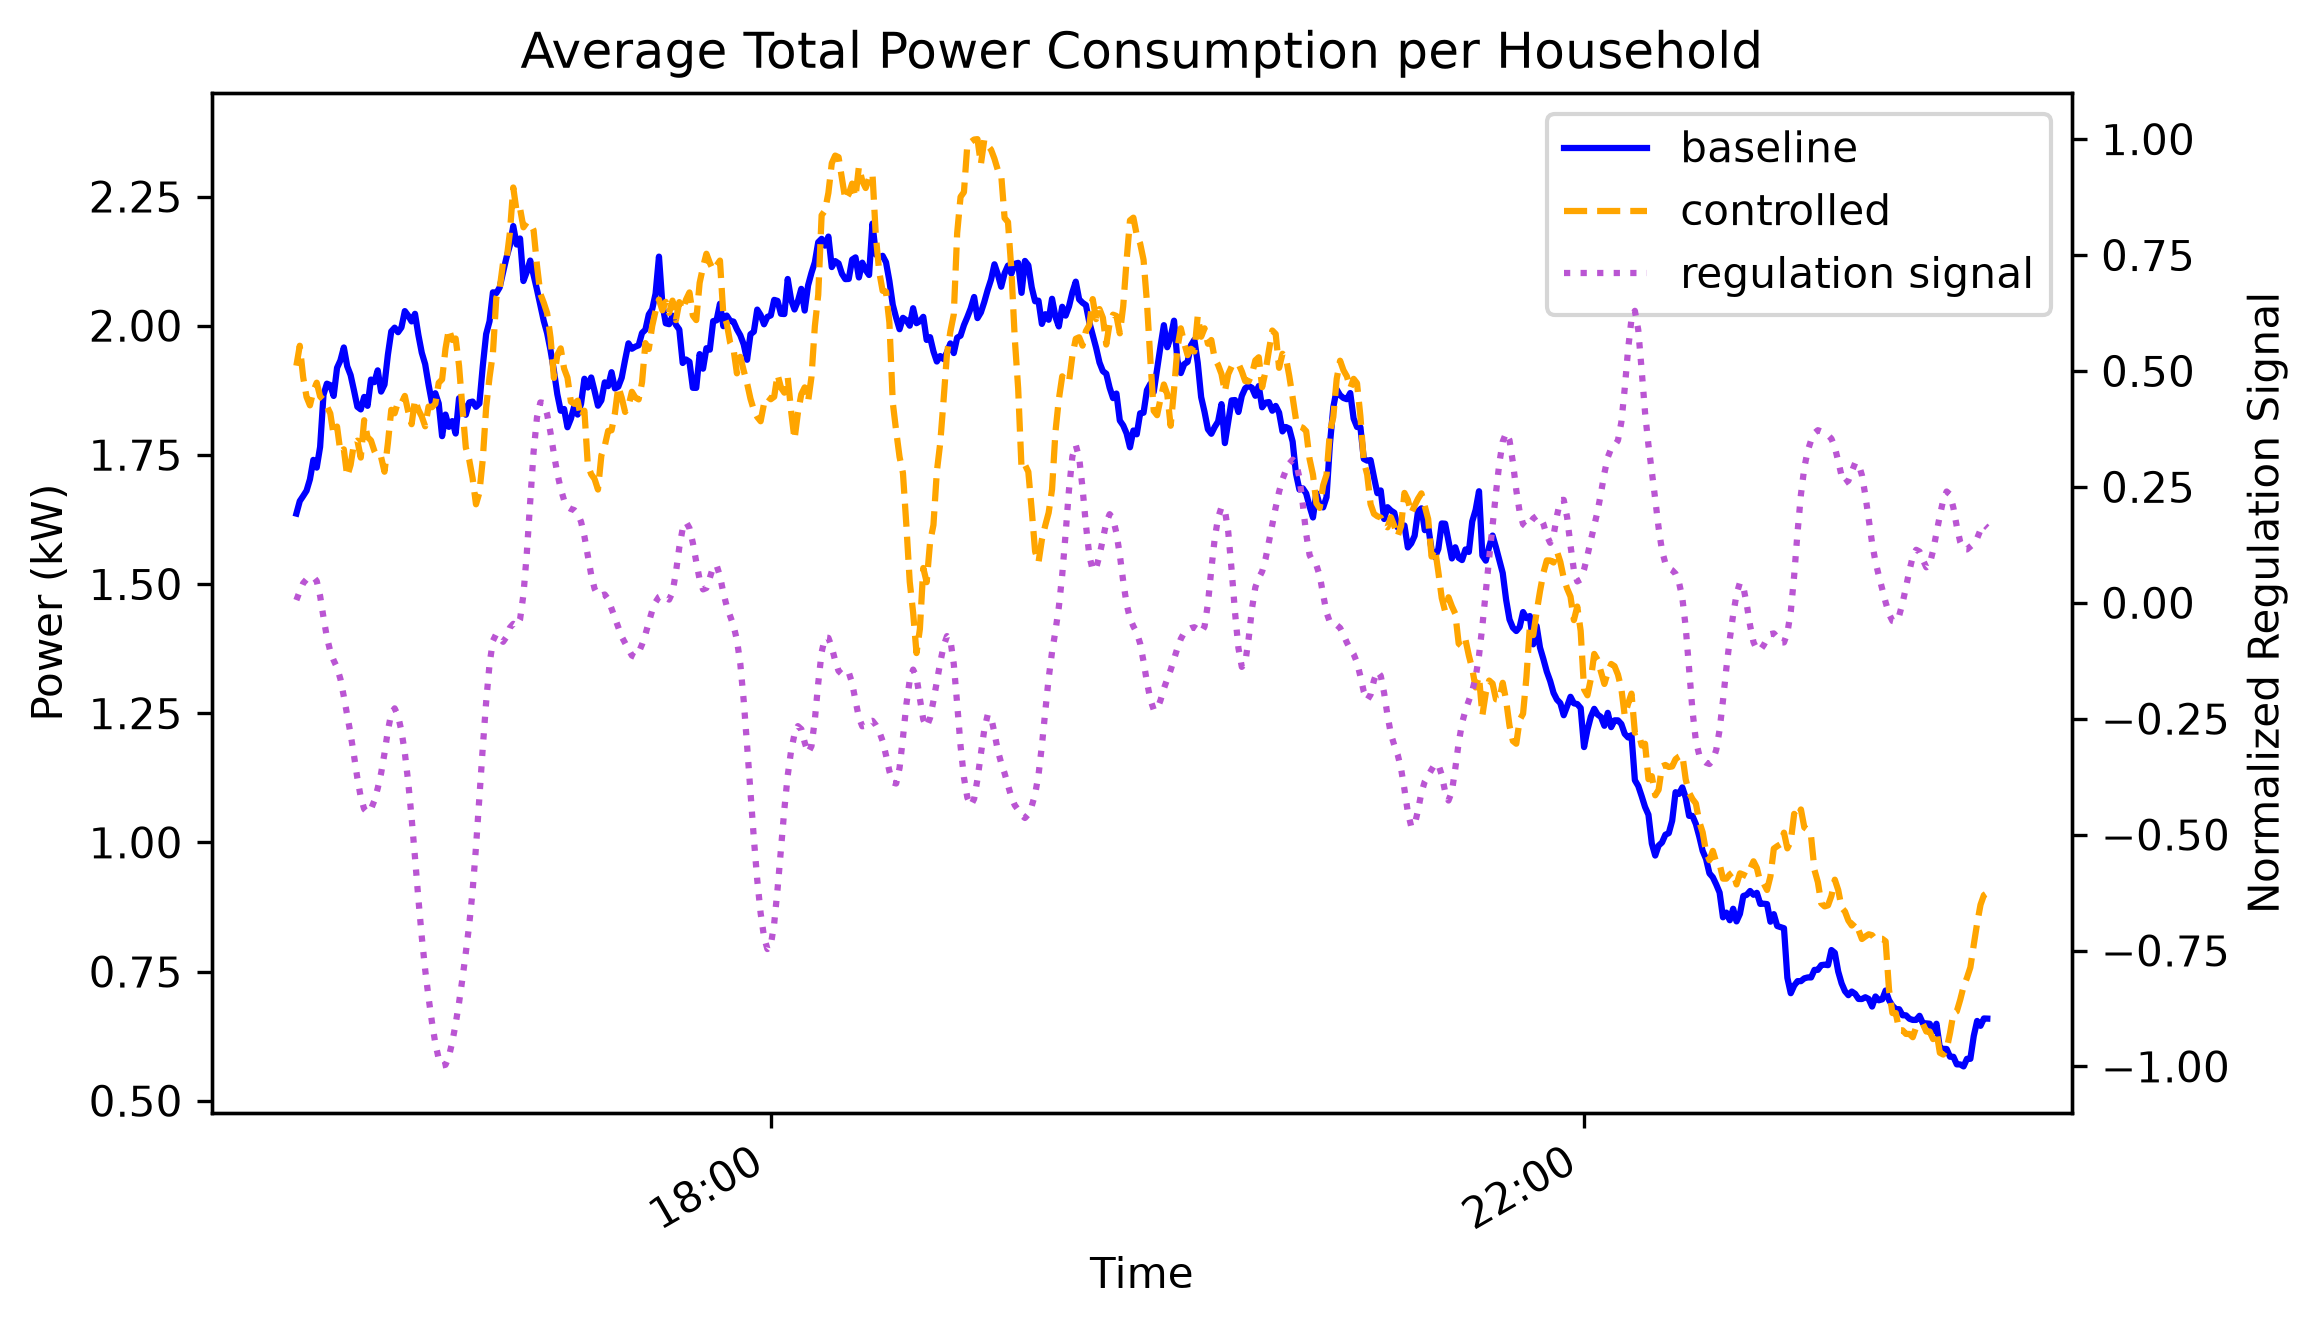
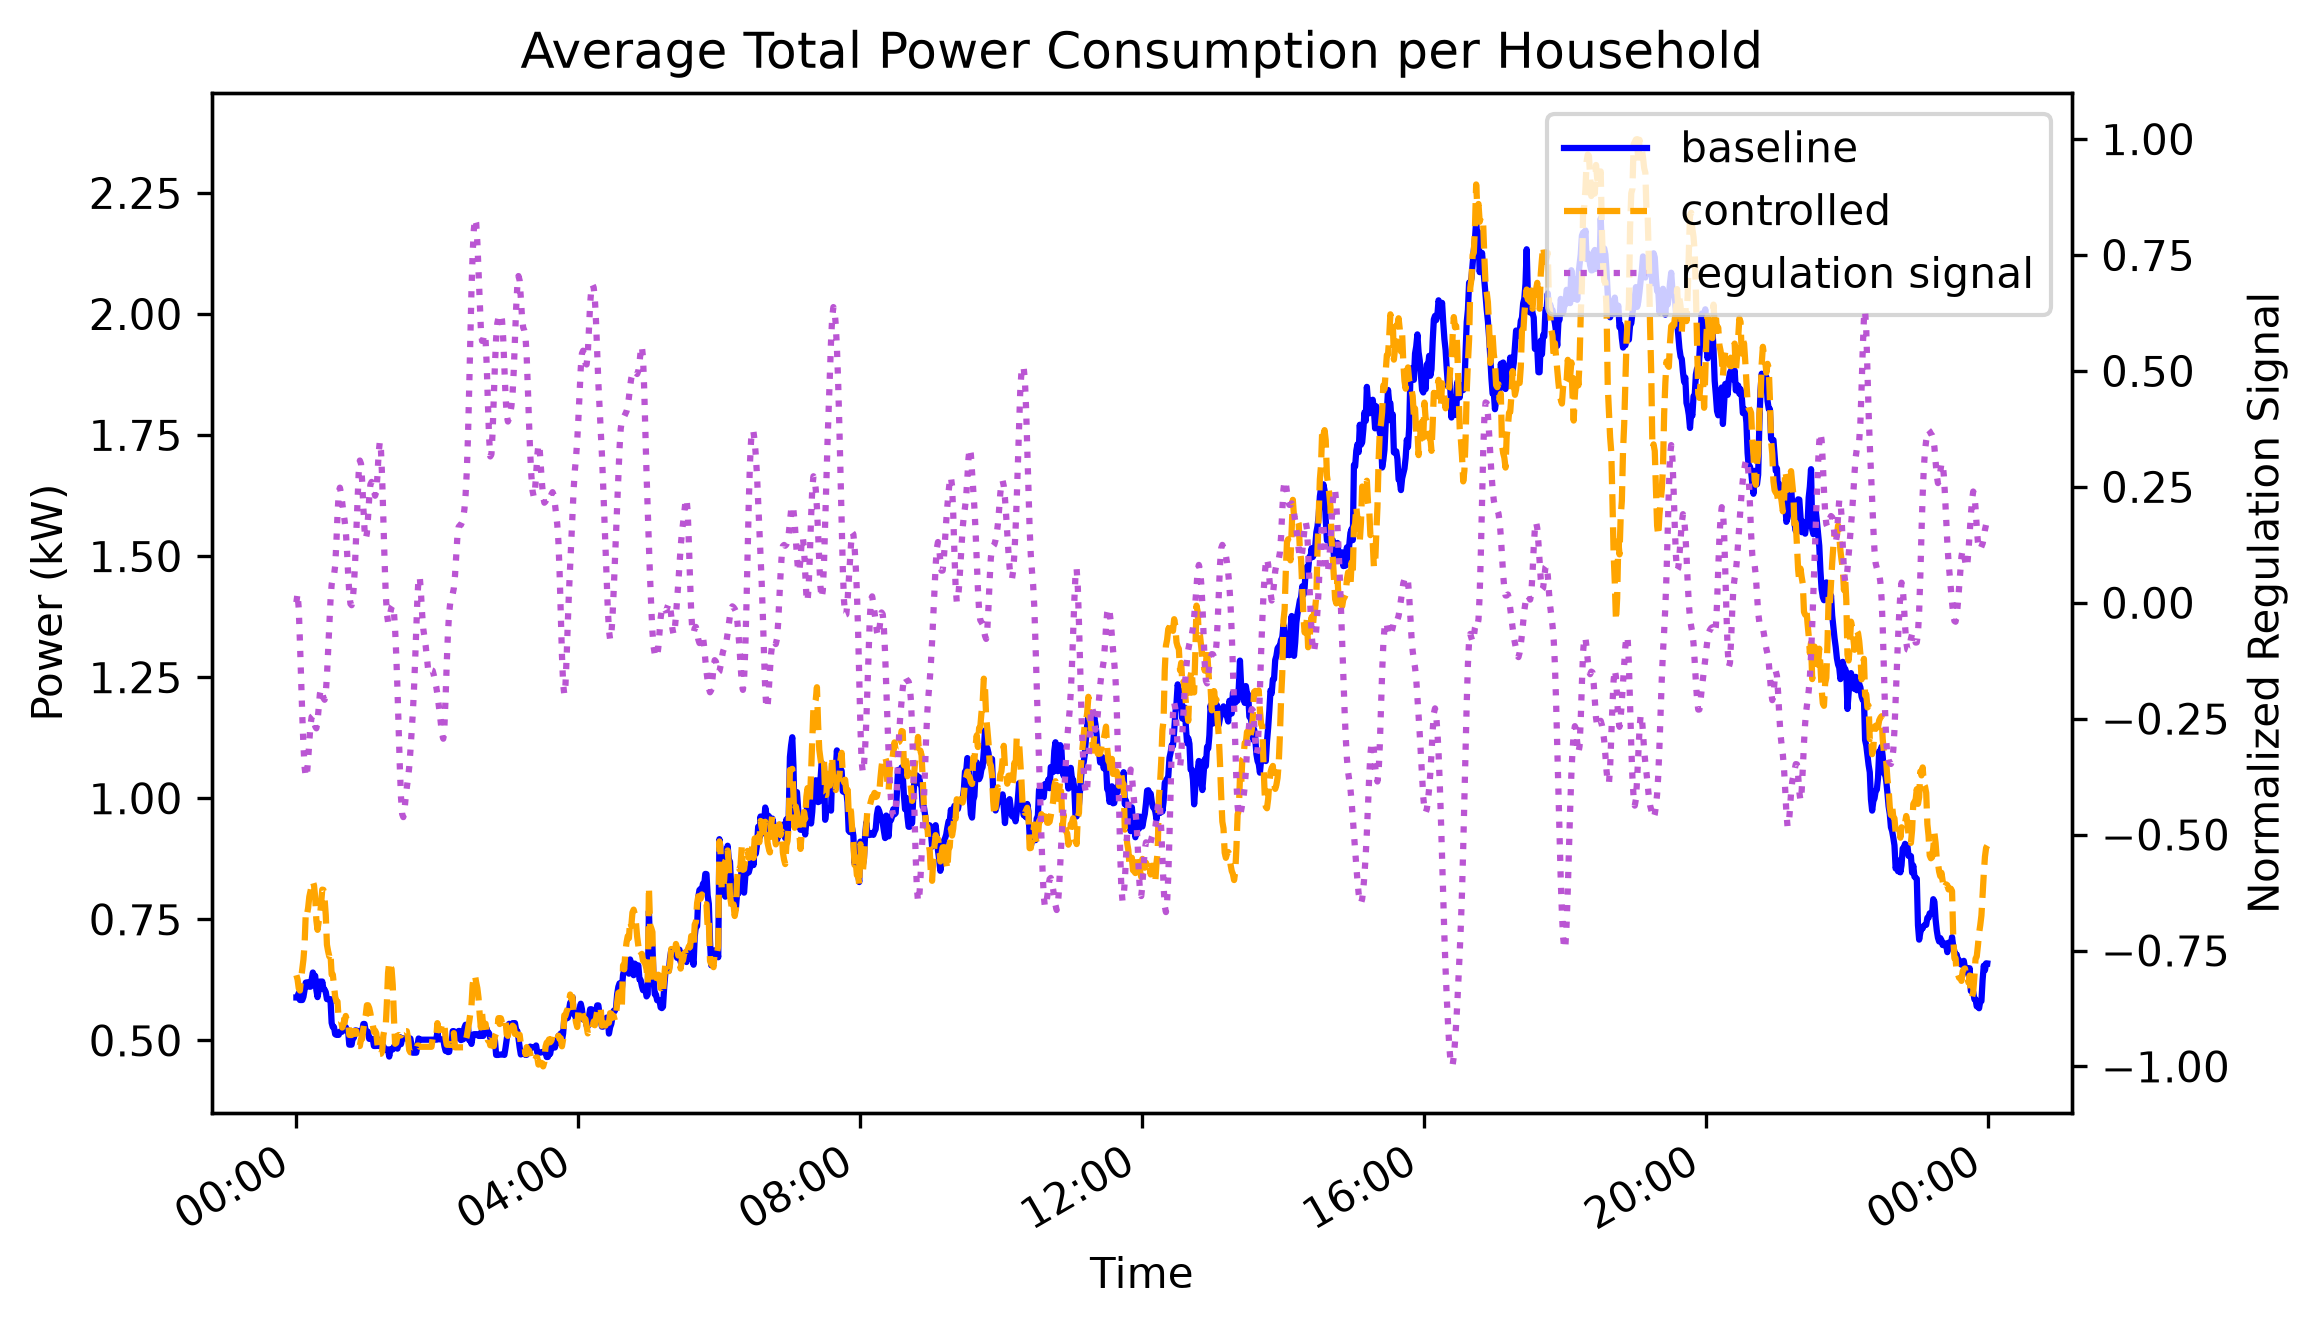
test

diff --git a/OCHRE/OCHRE Regulation/AC/AC_C2_Plot_Totpower_WHpower.py b/OCHRE/OCHRE Regulation/AC/AC_C2_Plot_Totpower_WHpower.py
@@ -114,21 +114,21 @@ def plot_data(baseline_file, controlled_file, title, photo_file, ax):
     #plot
     fig, ax = plt.subplots(figsize=(8, 5))
 
-    ax.plot(df_base['Time'].tail(500),
-            df_base['baseline'].tail(500),
+    ax.plot(df_base['Time'],
+            df_base['baseline'],
             label='baseline',
             color='blue')
 
-    ax.plot(df_con['Time'].tail(500),
-            df_con['controlled'].tail(500),
+    ax.plot(df_con['Time'],
+            df_con['controlled'],
             label='controlled',
             color='orange',
             linestyle='--')
 
     ax2 = ax.twinx()
 
-    ax2.plot(df_reg_sig['Time'].tail(500),
-            df_reg_sig['signal'].tail(500),
+    ax2.plot(df_reg_sig['Time'],
+            df_reg_sig['signal'],
             label='regulation signal',
             color='mediumorchid',
             linestyle=':')
